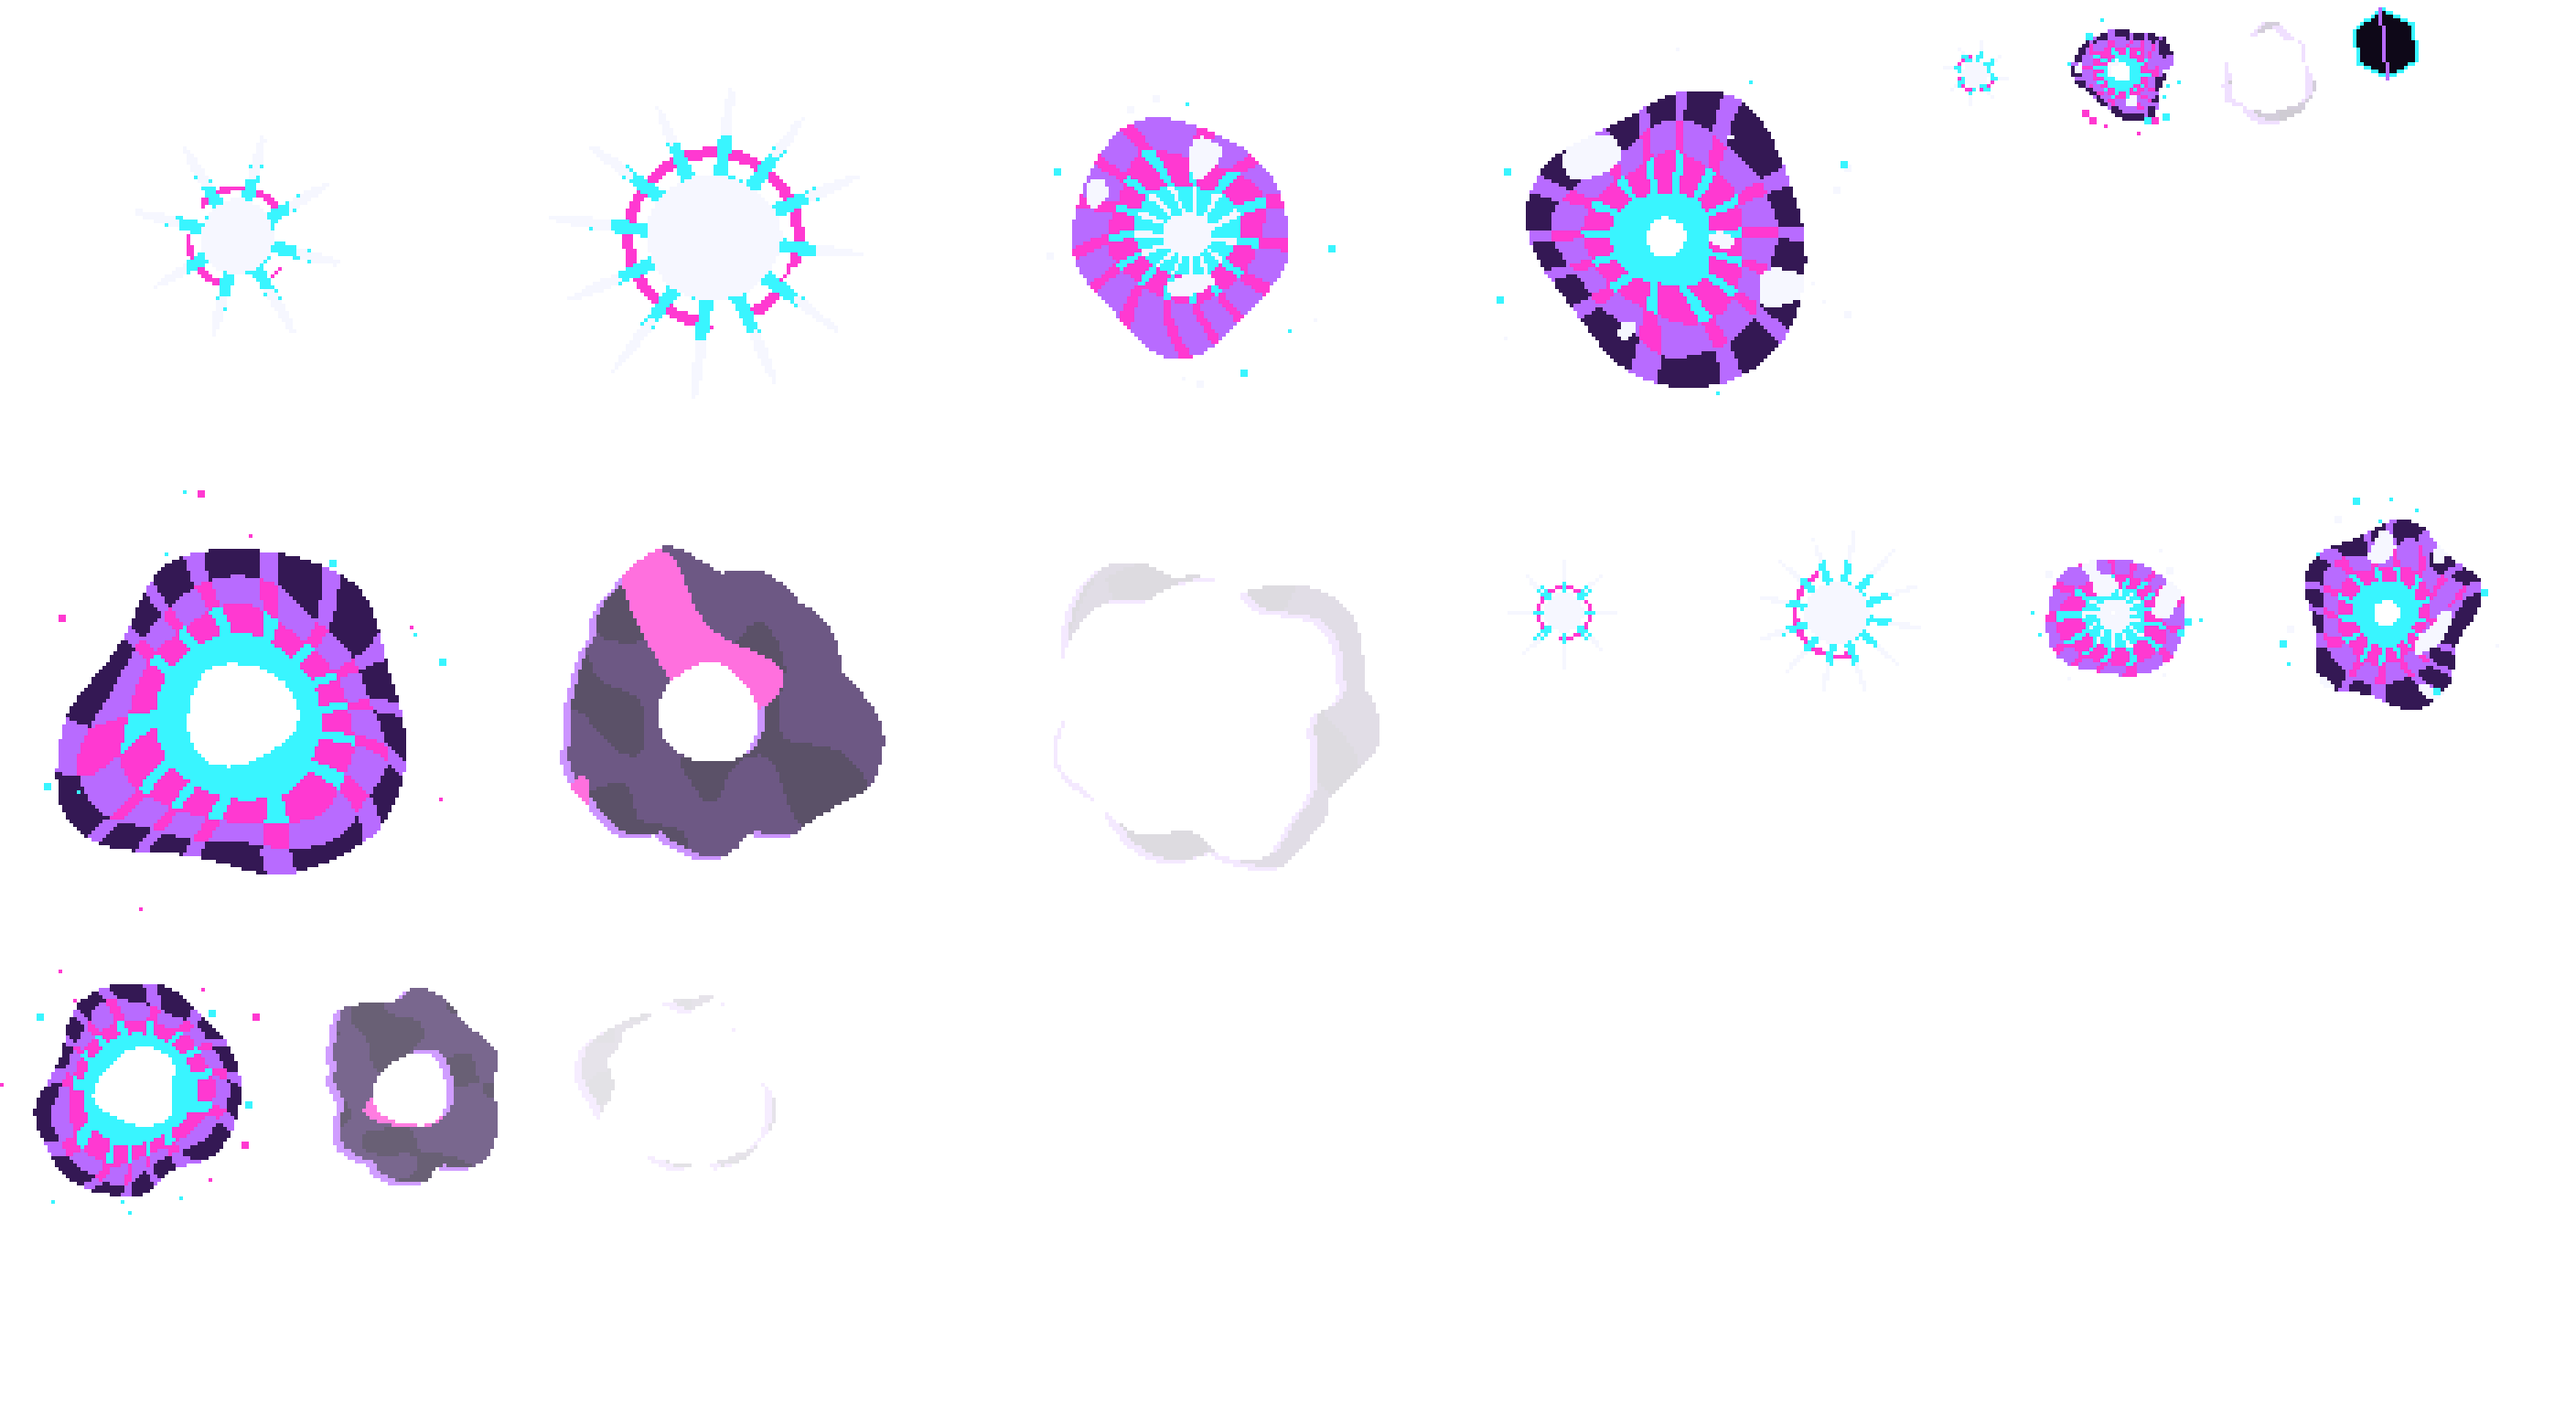
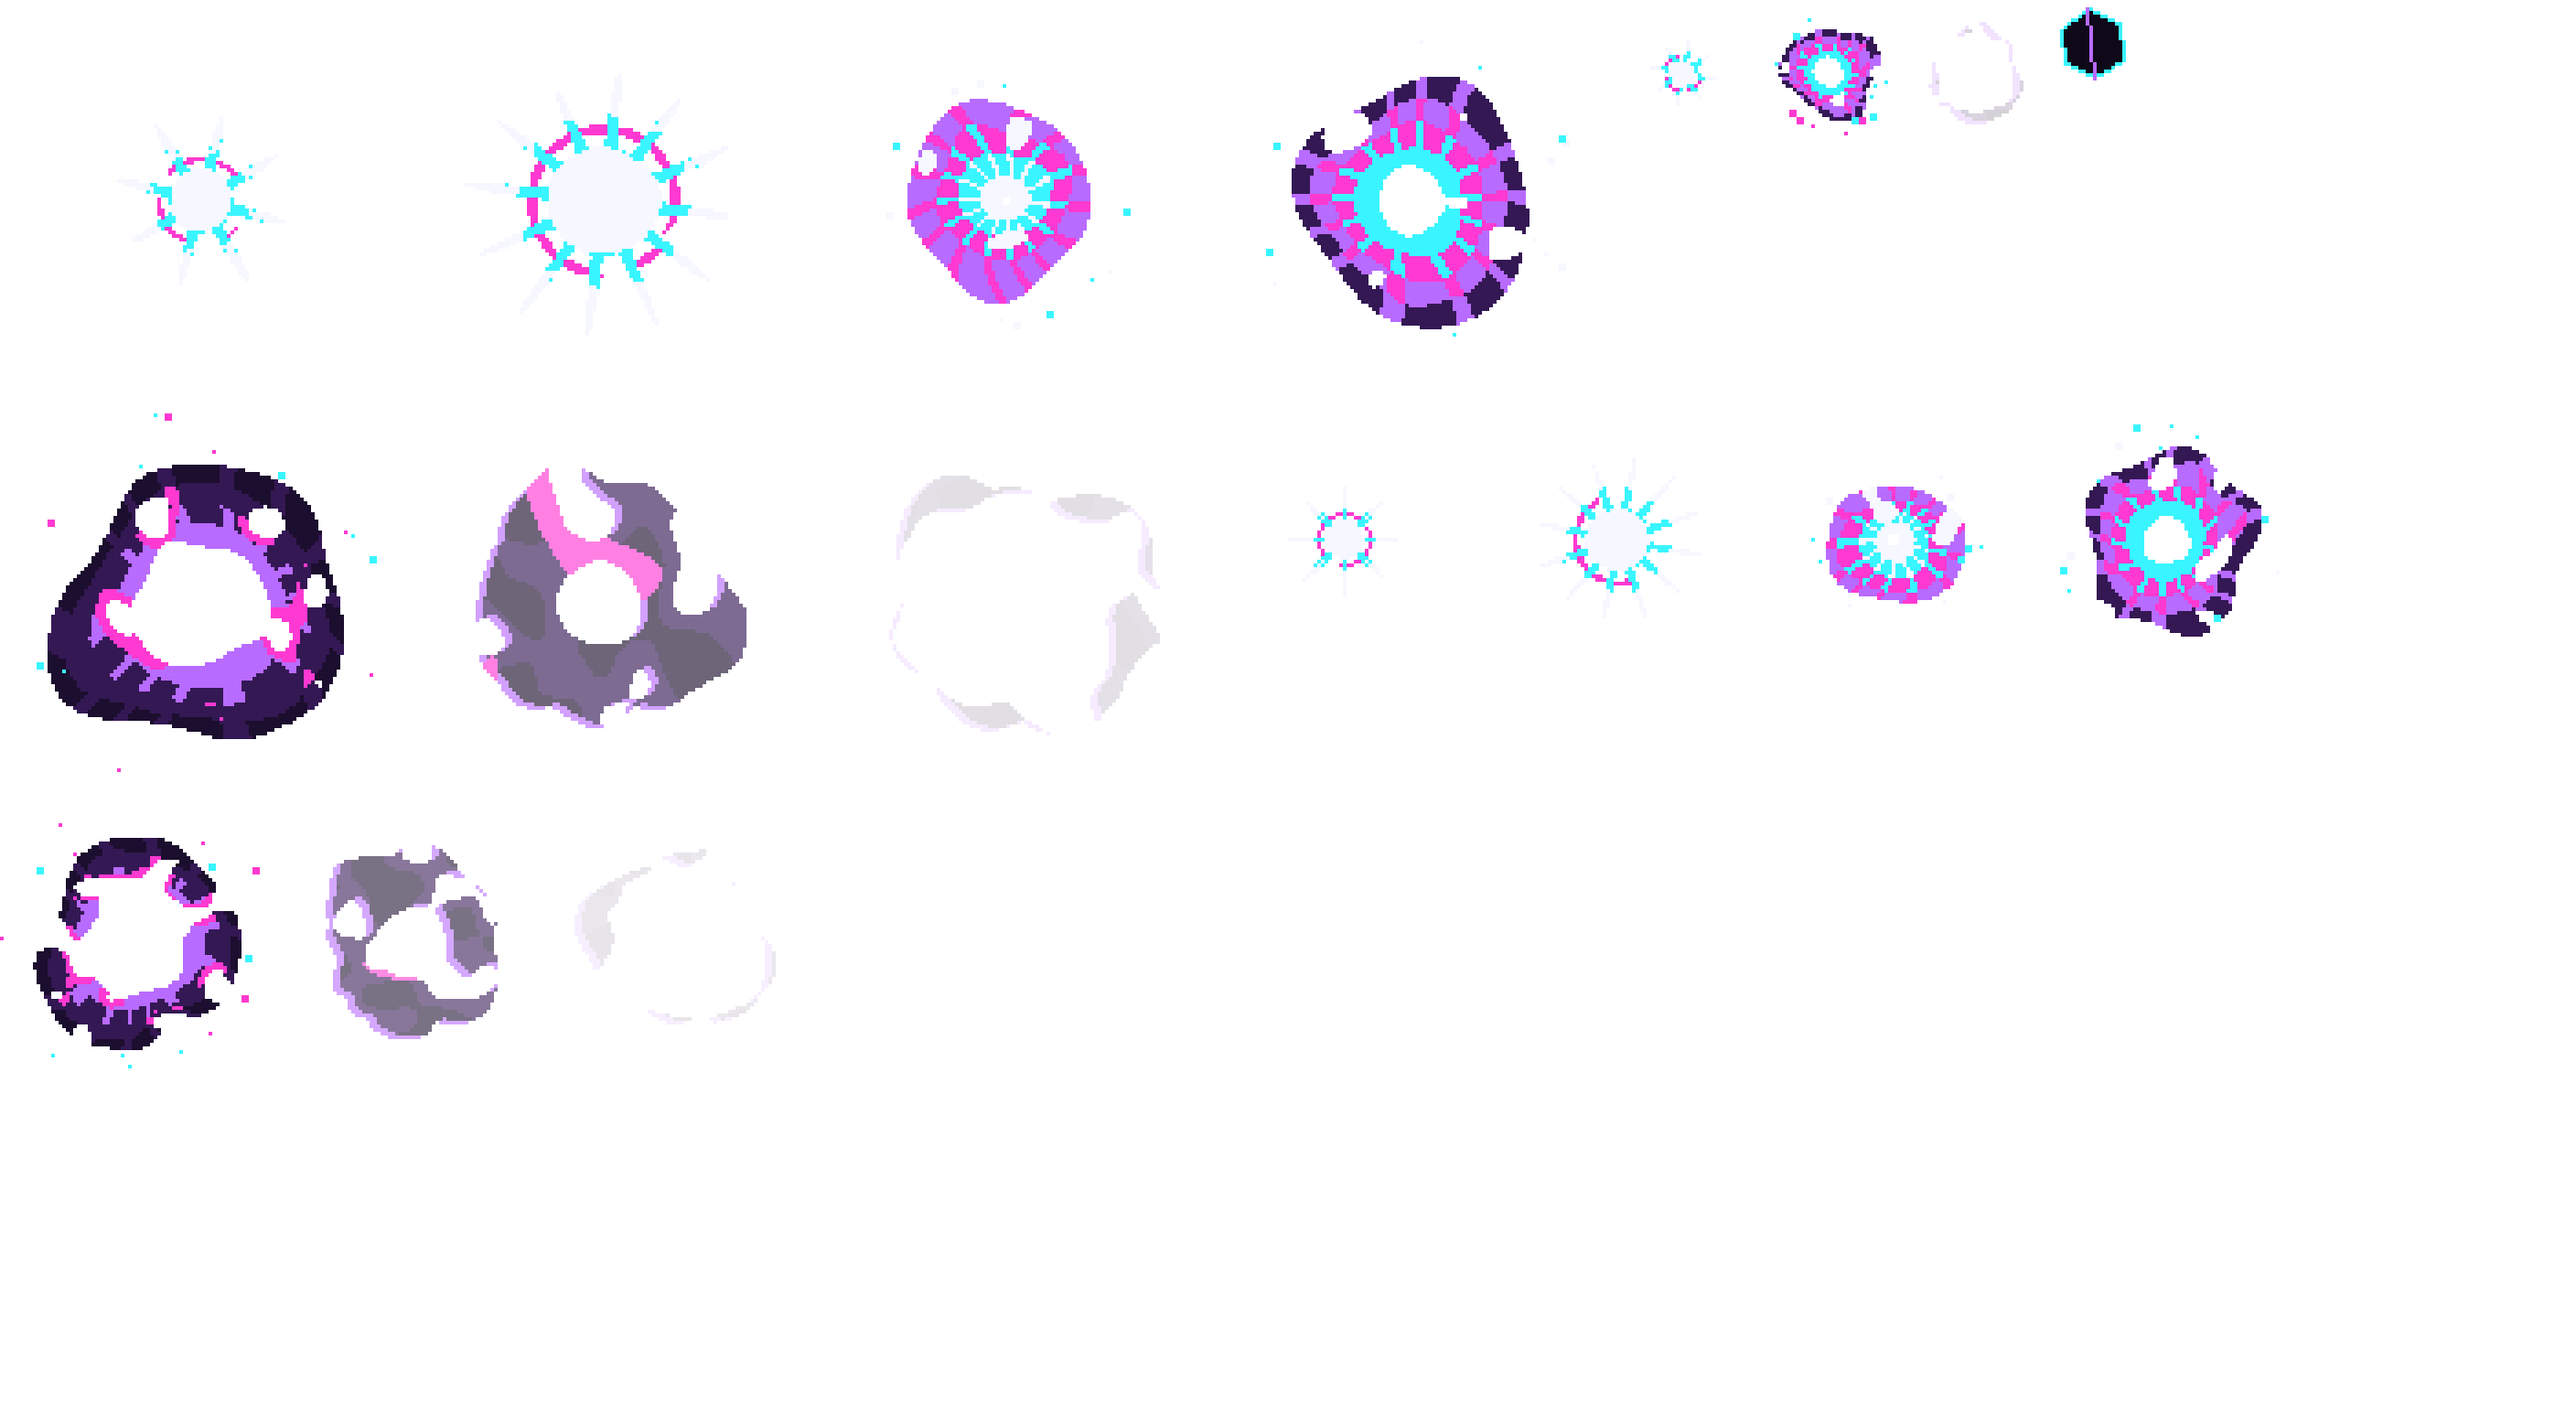
explosions: hollow, porous large set with cooling late frames
gen_explosions.py: the large frames drop from 520 to 440 px, the fire shell hollows from t = .2 and tears open
(porous noise mask) so a late frame is a broken ring, not a disc; late frames (t >= .58) cool to violet / indigo
with magenta embers; smoke frames are torn (never a solid disc) at .8 alpha. Sheet, WebP and the EXPLOSION_FRAMES
rects regenerated (indices and the 10 / 18 / 20 blanks unchanged); content-tables 1728 / 1728.

diff --git a/assets/js/core/30-content.js b/assets/js/core/30-content.js
@@ -13,27 +13,27 @@ const EXPLOSION_SHEET = {
 // Indices are stable: frames 10, 18 and 20 are unused 16 px blanks and 16 is the debris chunk (drawDebris), so no set
 // references them (F012); they stay in the table so the numbering does not shift.
 const EXPLOSION_FRAMES = [
-  { x: 2400, y: 0, w: 160, h: 160 },
-  { x: 2240, y: 0, w: 160, h: 160 },
   { x: 2080, y: 0, w: 160, h: 160 },
-  { x: 300, y: 1040, w: 300, h: 300 },
-  { x: 0, y: 1040, w: 300, h: 300 },
-  { x: 2460, y: 520, w: 300, h: 300 },
-  { x: 2160, y: 520, w: 300, h: 300 },
-  { x: 1860, y: 520, w: 300, h: 300 },
-  { x: 600, y: 1040, w: 300, h: 300 },
-  { x: 1560, y: 520, w: 300, h: 300 },
-  { x: 900, y: 1040, w: 16, h: 16 },
-  { x: 1560, y: 0, w: 520, h: 520 },
-  { x: 1040, y: 0, w: 520, h: 520 },
-  { x: 0, y: 520, w: 520, h: 520 },
-  { x: 520, y: 0, w: 520, h: 520 },
-  { x: 0, y: 0, w: 520, h: 520 },
-  { x: 2560, y: 0, w: 96, h: 96 },
-  { x: 1040, y: 520, w: 520, h: 520 },
-  { x: 916, y: 1040, w: 16, h: 16 },
-  { x: 520, y: 520, w: 520, h: 520 },
-  { x: 932, y: 1040, w: 16, h: 16 }
+  { x: 1920, y: 0, w: 160, h: 160 },
+  { x: 1760, y: 0, w: 160, h: 160 },
+  { x: 300, y: 880, w: 300, h: 300 },
+  { x: 0, y: 880, w: 300, h: 300 },
+  { x: 2220, y: 440, w: 300, h: 300 },
+  { x: 1920, y: 440, w: 300, h: 300 },
+  { x: 1620, y: 440, w: 300, h: 300 },
+  { x: 600, y: 880, w: 300, h: 300 },
+  { x: 1320, y: 440, w: 300, h: 300 },
+  { x: 900, y: 880, w: 16, h: 16 },
+  { x: 1320, y: 0, w: 440, h: 440 },
+  { x: 880, y: 0, w: 440, h: 440 },
+  { x: 0, y: 440, w: 440, h: 440 },
+  { x: 440, y: 0, w: 440, h: 440 },
+  { x: 0, y: 0, w: 440, h: 440 },
+  { x: 2240, y: 0, w: 96, h: 96 },
+  { x: 880, y: 440, w: 440, h: 440 },
+  { x: 916, y: 880, w: 16, h: 16 },
+  { x: 440, y: 440, w: 440, h: 440 },
+  { x: 932, y: 880, w: 16, h: 16 }
 ];
 
 // Frame order per set: flash (additive) -> fireball shell -> smoke; the generator lays the sheet out in this order.

diff --git a/tools/art/gen_explosions.py b/tools/art/gen_explosions.py
@@ -66,22 +66,26 @@ def frame(size_px, kind, t, seed):
     if kind == "fire":
         R = 0.30 + 0.66 * t
         r_e = R * (0.80 + 0.40 * nz)
-        hollow = max(0.0, (t - 0.32)) / 0.68
-        r_in = hollow * R * 0.78 * (0.78 + 0.35 * nz2)
+        hollow = max(0.0, (t - 0.2)) / 0.8
+        r_in = hollow * R * 0.92 * (0.78 + 0.35 * nz2)
         mask = (d < r_e) & (d > r_in)
+        if t > 0.3:                                                          # porous shell: the blast tears open
+            mask &= ~(nz2 > (0.95 - 0.3 * t))
         s = np.clip((d - r_in) / np.maximum(1e-3, (r_e - r_in)), 0, 1)     # 0 inner edge, 1 outer edge
         s = np.clip(s + 0.22 * (nz2 - 0.5), 0, 0.999)                       # jagged band borders
         streak = np.abs(np.sin(ang * 7 + nz * 4.0)) ** 8 > 0.45              # radial streaks lift a band
         s = np.where(streak, np.clip(s - 0.25, 0, 0.999), s)
         band = np.floor(s * 4).astype(int)                                  # 4 posterised bands
-        if t < 0.45:
+        if t < 0.4:
             cols = [PAL["white"], PAL["cyan"], PAL["magenta"], PAL["violet"]]
-        elif t < 0.7:
+        elif t < 0.58:
             cols = [PAL["cyan"], PAL["magenta"], PAL["violet"], PAL["indigo"]]
         else:
-            cols = [PAL["magenta"], PAL["violet"], PAL["indigo"], PAL["smoke"]]
+            cols = [PAL["violet"], PAL["indigo"], PAL["indigo"], PAL["smoke"]]      # cooling plasma: magenta only as embers
         for i in range(4):
             paint(out, mask & (band == i), cols[i])
+        if t >= 0.58:
+            paint(out, mask & (nz2 > 0.62) & (band <= 1), PAL["magenta"])
         # sparkle pixels inside the shell
         spark = mask & (nz2 > 0.82) & (t < 0.6)
         paint(out, spark, PAL["white"])
@@ -102,7 +106,7 @@ def frame(size_px, kind, t, seed):
     if kind == "smoke":
         R = 0.92
         fade = 1.0 - max(0.0, (t - 0.72)) / 0.3
-        alpha = max(0.0, min(1.0, 0.9 * fade))
+        alpha = max(0.0, min(1.0, 0.8 * fade))
         puffs = np.zeros((n, n), bool)
         k = 8
         for i in range(k):
@@ -113,7 +117,7 @@ def frame(size_px, kind, t, seed):
             puffs |= np.hypot(xx - px, yy - py) < pr * (0.86 + 0.28 * nz2)
         puffs |= d < 0.3 * R * (0.9 + 0.2 * nz)
         hole = d < (0.18 + 0.5 * max(0.0, t - 0.75) / 0.25) * R * (0.8 + 0.4 * nz2) if t > 0.75 else np.zeros_like(puffs)
-        body = puffs & ~hole
+        body = puffs & ~hole & ~(nz2 > 0.74)                                 # torn smoke, never a solid disc
         paint(out, body, PAL["indigo"], alpha)
         inner = body & (nz2 < 0.45)
         paint(out, inner, PAL["smoke"], alpha)
@@ -151,7 +155,7 @@ def put(idx, size, kind, t, seed):
 
 for i, (k, t) in zip([2, 1, 0], SMALL): put(i, 160, k, t, SEED + i)
 for i, (k, t) in zip([9, 7, 6, 5, 4, 3, 8], MEDIUM): put(i, 300, k, t, SEED + 20 + i)
-for i, (k, t) in zip([15, 14, 12, 11, 13, 19, 17], LARGE): put(i, 520, k, t, SEED + 40 + i)
+for i, (k, t) in zip([15, 14, 12, 11, 13, 19, 17], LARGE): put(i, 440, k, t, SEED + 40 + i)
 frames[16] = up(frame(96, "debris", 0, SEED + 99))
 for i in (10, 18, 20): frames[i] = Image.new("RGBA", (16, 16), (0, 0, 0, 0))
 
@@ -161,15 +165,15 @@ rects = {}
 def place(idx, x, y):
     im = frames[idx]; sheet.alpha_composite(im, (x, y)); rects[idx] = {"x": x, "y": y, "w": im.width, "h": im.height}
 x = 0
-for idx in [15, 14, 12, 11]: place(idx, x, 0); x += 520
+for idx in [15, 14, 12, 11]: place(idx, x, 0); x += 440
 for idx in [2, 1, 0]: place(idx, x, 0); x += 160
 place(16, x, 0)
 x = 0
-for idx in [13, 19, 17]: place(idx, x, 520); x += 520
-for idx in [9, 7, 6, 5]: place(idx, x, 520); x += 300
+for idx in [13, 19, 17]: place(idx, x, 440); x += 440
+for idx in [9, 7, 6, 5]: place(idx, x, 440); x += 300
 x = 0
-for idx in [4, 3, 8]: place(idx, x, 1040); x += 300
-for idx in [10, 18, 20]: place(idx, x, 1040); x += 16
+for idx in [4, 3, 8]: place(idx, x, 880); x += 300
+for idx in [10, 18, 20]: place(idx, x, 880); x += 16
 
 os.makedirs(OUT, exist_ok=True)
 sheet.save(os.path.join(OUT, "explosions.png"), optimize=True)
